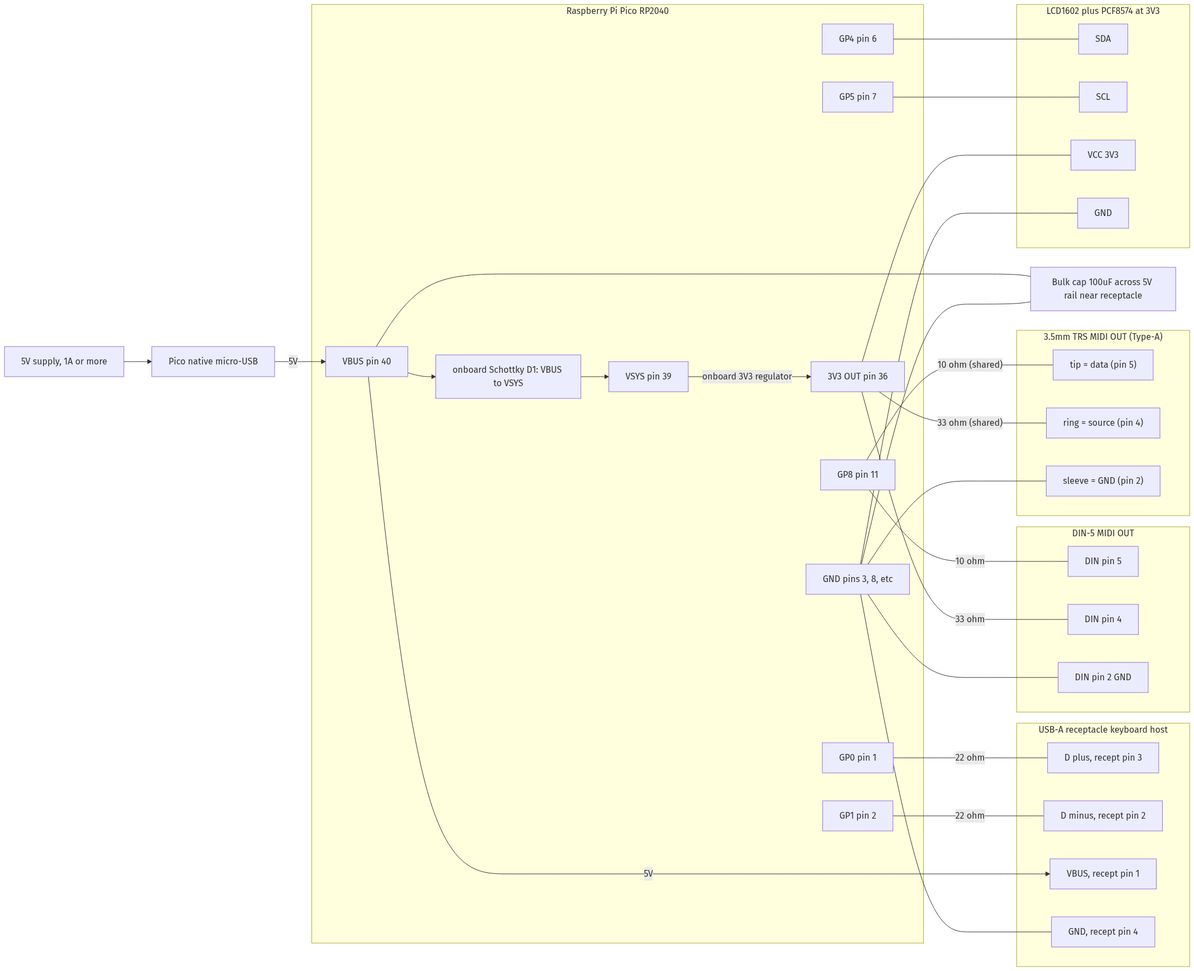
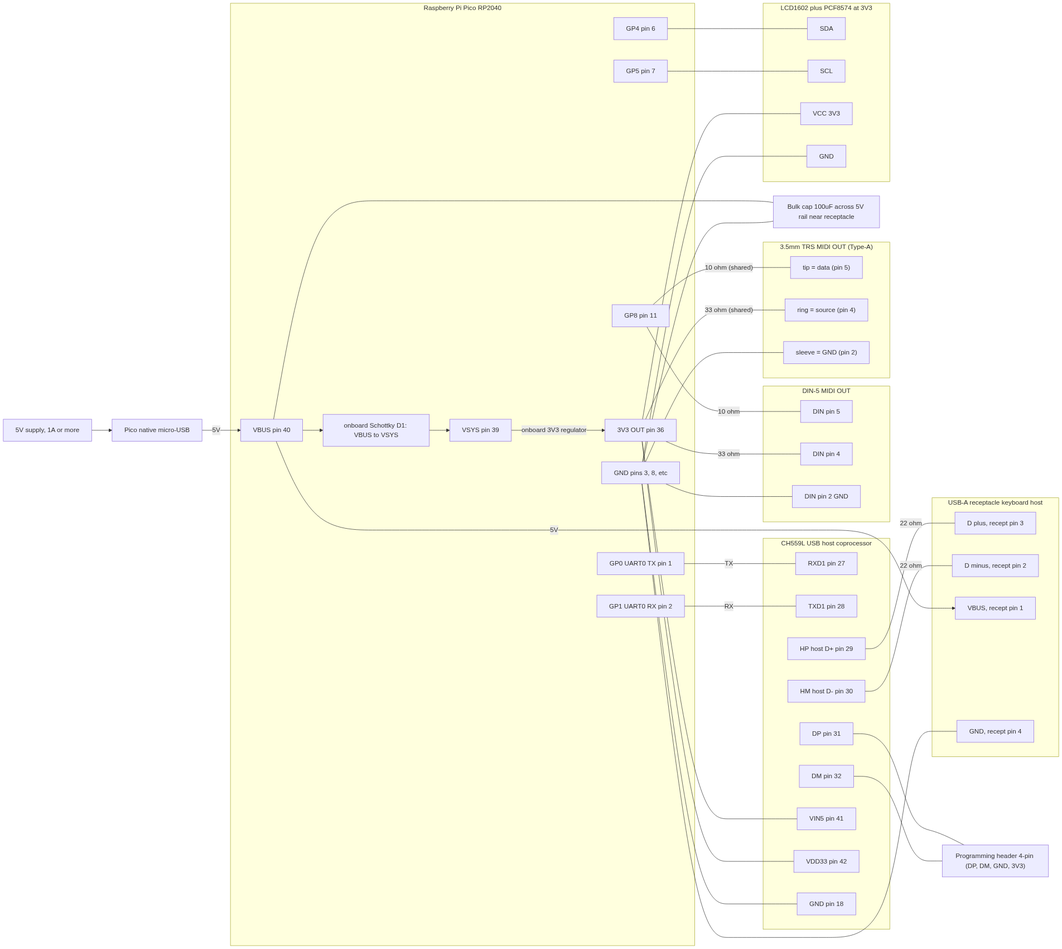
Adopt CH559 USB-host coprocessor (M12): spec, wiring, BOM, flashing docs

diff --git a/docs/KeybChord_Pico_Spec.md b/docs/KeybChord_Pico_Spec.md
@@ -2,7 +2,7 @@
 
 **Project:** KeybChord — Raspberry Pi Pico (RP2040) Edition
 **Description:** Turn any USB keyboard into an Omnichord-style MIDI controller using a Raspberry Pi Pico (RP2040), written in C++ on the Arduino-Pico core.
-**Document status:** v1 (Pico port) — build-ready. Derived from the Raspberry Pi Zero 2 W spec (`KeybChord_Spec.md` v3). This edition retargets the project to a bare-metal RP2040 microcontroller: the firmware is C++ (not Python), keyboard input is via a USB **host** stack (TinyUSB + Pico-PIO-USB, not Linux `evdev`), MIDI output is **DIN/UART only** (the USB port hosts the keyboard), persistence is **JSON on LittleFS** (not SD/JSON files), and there is **no OS/systemd** (the board runs on power-up). Two minor items remain open (LCD line-2 layout and final rhythm list, Section 14) and are flagged inline with **[DRAFT — REVIEW]**; both are deferred to post-hardware testing and do not block implementation.
+**Document status:** v1 (Pico port) — build-ready. Derived from the Raspberry Pi Zero 2 W spec (`KeybChord_Spec.md` v3). This edition retargets the project to a bare-metal RP2040 microcontroller: the firmware is C++ (not Python), keyboard input is via a **CH559 USB-host coprocessor** (not Linux `evdev`), MIDI output is **DIN/TRS + USB MIDI**, persistence is **JSON on LittleFS** (not SD/JSON files), and there is **no OS/systemd** (the board runs on power-up). Two minor items remain open (LCD line-2 layout and final rhythm list, Section 14) and are flagged inline with **[DRAFT — REVIEW]**; both are deferred to post-hardware testing and do not block implementation.
 **Target audience:** Coding agent implementing the firmware.
 
 ---
@@ -27,7 +27,7 @@ KeybChord is a standalone MIDI controller. A standard USB keyboard is plugged in
 - **Language:** C++17.
 - **Platform / core:** Arduino-Pico core (earlephilhower) targeting RP2040 (Raspberry Pi Pico / Pico W).
 - **Build system:** PlatformIO, with two environments — an on-device `pico` environment and a desktop `native` environment for unit-testing the pure-logic core.
-- **USB keyboard input:** USB **host** via TinyUSB + Pico-PIO-USB. The firmware parses HID keyboard reports directly (boot and/or report protocol), tracking modifiers and N-key rollover from the report data. There is no OS input layer; the keyboard is owned exclusively by the firmware.
+- **USB keyboard input:** a **CH559** (WCH) acts as a USB **host** coprocessor, enumerating the keyboard (boot and/or report protocol, incl. NKRO) and forwarding parsed key events to the RP2040 over a UART bridge. There is no OS input layer; the keyboard is owned exclusively by the firmware.
 - **MIDI output:** DIN and TRS via hardware UART (`Serial2` = UART1) at 31250 baud, 8N1, plus a USB MIDI device on the native USB port (see 3.4). DIN is the always-available path.
 - **Persistence:** JSON on **LittleFS** in the Pico's onboard flash, parsed/serialized with ArduinoJson. Human-readable and user-editable via the flash filesystem.
 - **No FPU:** RP2040 (Cortex-M0+) has **no hardware floating-point**. All timing-sensitive and per-event math (chord/voicing/strum/rhythm/clock) MUST be integer or fixed-point. In particular, **swing is stored and computed as a fixed-point integer** (see Sections 7.3 and 9). Floats are permitted only in cold paths (e.g. one-time config parsing), never in the real-time loops.
@@ -40,7 +40,7 @@ These are the recommended, commonly-used libraries for this hardware/stack. The 
 | Purpose | Library | Notes |
 |---------|---------|-------|
 | RP2040 Arduino core | `arduino-pico` (earlephilhower) | Provides Arduino API, dual-core (`setup1/loop1`), TinyUSB, LittleFS, hardware UARTs (`Serial1`/`Serial2`) |
-| USB host stack | TinyUSB (bundled with core) + `Pico-PIO-USB` (sekigon-gonnoc) | HID keyboard host on a PIO-driven USB port; FS/LS host + hub supported |
+| USB host stack | CH559 (WCH) USB-host coprocessor (8051 C firmware) over a UART bridge | HID keyboard host incl. hubs + report/NKRO; key events forwarded to the RP2040 over UART |
 | DIN MIDI (UART) | Arduino `Serial2` (UART1, raw bytes) | 31250 baud 8N1; optional `Arduino MIDI Library` for framing |
 | LCD1602 over PCF8574 I2C | `hd44780` (by Bill Perry) or `LiquidCrystal_I2C` | PCF8574 I/O-expander mode over `Wire` |
 | JSON parse/serialize | `ArduinoJson` (bblanchon) | Config/preset/pattern read/write on LittleFS |
@@ -51,7 +51,7 @@ These are the recommended, commonly-used libraries for this hardware/stack. The 
 The agent will produce the entire firmware project. Work in the following ordered steps; after each step, stop and present the result for the user to test and give feedback before proceeding.
 
 1. **Repo structure & scaffolding.** Create the PlatformIO project layout, `platformio.ini` with `pico` + `native` environments and pinned library deps (per 1.5), entry point (`src/main.cpp` with `setup/loop` and `setup1/loop1`), a config loader that generates default `config.json` and default preset banks on LittleFS on first boot (Section 12.x robustness), and hardware adapter interfaces with null fallbacks (input, LCD, MIDI out, keyboard LED, storage) so the pure core builds and runs on the `native` host. Verify: firmware builds for `pico`; native test target builds; app logic initializes and loads/creates config.
-2. **Core framework.** Implement Input Manager (USB-host HID keyboard via TinyUSB/Pico-PIO-USB), State Manager, MIDI Router (DIN via `Serial2`/UART1), Config/Preset store (LittleFS + ArduinoJson), and a **minimal USB-CDC debug log + MIDI monitor** (raw key events in, outgoing MIDI messages out) — the on-device feedback instrument for steps 2–5, since the LCD does not arrive until step 6. Verify: raw key events are captured on-device and observed via the USB-CDC debug log; a hardcoded note plays on the DIN output and appears in the MIDI monitor (and null-logs on the native host). No LCD required.
+2. **Core framework.** Implement Input Manager (USB-host HID keyboard via the CH559 coprocessor + UART bridge), State Manager, MIDI Router (DIN via `Serial2`/UART1), Config/Preset store (LittleFS + ArduinoJson), and a **minimal USB-CDC debug log + MIDI monitor** (raw key events in, outgoing MIDI messages out) — the on-device feedback instrument for steps 2–5, since the LCD does not arrive until step 6. Verify: raw key events are captured on-device and observed via the USB-CDC debug log; a hardcoded note plays on the DIN output and appears in the MIDI monitor (and null-logs on the native host). No LCD required.
 3. **Chord engine.** Root/quality resolution from the key grid, same-column + left-adjacent + leftmost combination matrix, voicing (root-position & smart), extensions, and the four play modes with correct note lifecycle. Verify: chords and combinations produce correct notes; play modes behave per spec.
 4. **Strum plate.** Note-pool derivation, full + limited numpad layouts (independent of the keyboard's Num-Lock state), strum params, immediate edit pickup. Verify: strumming plays the active chord's notes correctly in both layouts.
 5. **Rhythm engine.** Scheduler/clock (on the second core), JSON pattern playback on ch10, tempo/swing (fixed-point), mute, MIDI clock toggle, arpeggio/bass sync, and the keyboard-LED BPM indicator (FR-R8). Verify: patterns play; tempo/swing/mute/clock behave; Scroll Lock LED flashes on the beat when rhythm is enabled.
@@ -68,8 +68,13 @@ The agent will produce the entire firmware project. Work in the following ordere
 |------|---------|
 | Raspberry Pi Pico (RP2040) | Main compute unit (Pico W also fine; W's wireless is unused in v1) |
 | USB keyboard | Primary input device |
-| USB-A receptacle / breakout | Host port for the keyboard, wired to the Pico's PIO-USB D+/D- GPIO pins. Receptacle pinout: pin 1 = VBUS (5V), pin 2 = D-, pin 3 = D+, pin 4 = GND. |
-| 2× 22Ω resistors (1/4 W) | **Required** series resistors on the PIO-USB D+/D- lines (per Pico-PIO-USB reference). These are the only series elements on D+/D-; the keyboard supplies its own device-side pull-ups. |
+| USB-A receptacle / breakout | Host port for the keyboard, wired to the **CH559** HP/HM pins. Receptacle pinout: pin 1 = VBUS (5V), pin 2 = D-, pin 3 = D+, pin 4 = GND. |
+| CH559L (USB host coprocessor) | WCH 8051 MCU with a **hardware USB host controller**, hosting hubs + full-length descriptors + report/NKRO protocols and forwarding key events over UART (see 2.2). Replaces the PIO-USB software host. Powered from `3V3(OUT)`; runs off its internal oscillator (no crystal). |
+| 2× 22Ω resistors (1/4 W) | **Required** series resistors on the CH559 HP/HM (D+/D-) lines. These are the only series elements on D+/D-; the keyboard supplies its own device-side pull-ups. |
+| 2× 0.1 µF ceramic capacitors | Decoupling on the CH559 `VIN5` (pin 41) and `VDD33` (pin 42). |
+| 1× 10 kΩ resistor (1/4 W) | **BOOT** pull-up (`DP`→3V3) for CH559 bootloader entry (see `docs/wiring.md` §Flashing the CH559). |
+| 2× tactile switch (BOOT, RESET) | CH559 bootloader entry / reset — BOOT pulls `DP` high via 10 kΩ, RESET on `RST` (pin 3). Two shortable solder pads may substitute. |
+| 1× 4-pin 0.1" (2.54 mm) male header | CH559 **programming header** — `DP` (31), `DM` (32), `GND`, `3V3`. Mates with a USB-A plug breakout pigtail for flashing (see `docs/wiring.md` §Flashing the CH559). |
 | LCD1602 display + PCF8574 I2C backpack | Status / parameter display. **Operated at 3.3V** so its I2C bus stays 3.3V-safe for the RP2040 (see 2.2). |
 | 5-pin DIN socket (DIN-5, 180°) | Classic MIDI output. |
 | 3.5 mm TRS (Type-A) MIDI out jack | Secondary MIDI output, wired **in parallel** with the DIN current loop (shares the same 10Ω/33Ω loop resistors — no additional parts). TRS Type-A: tip = DIN pin 5 (data), ring = DIN pin 4 (source), sleeve = DIN pin 2 (GND). See 2.2. |
@@ -83,27 +88,27 @@ The agent will produce the entire firmware project. Work in the following ordere
 
 ### 2.2 Connections
 
-This is the **canonical default pin map**. GPIO are given with their physical Pico header pin numbers. The only supported overrides are the PIO-USB D+ base pin (via the `PIO_USB_DP_PIN_DEFAULT` build flag) and the DIN/I2C pins (via `pins.h`); the wiring below and the firmware defaults must always agree. The authoritative map lives in the roadmap (§5.2).
+This is the **canonical default pin map**. GPIO are given with their physical Pico header pin numbers. The only supported overrides are the CH559 UART pins and the DIN/I2C pins (via `pins.h`); the wiring below and the firmware defaults must always agree. The authoritative map lives in the roadmap (§5.2).
 
-- **Keyboard (USB host):** USB keyboard → USB-A receptacle → Pico PIO-USB pins. **D+ = `GP0` (header pin 1), D- = `GP1` (header pin 2)**, set by `PIO_USB_DP_PIN_DEFAULT=0` (D- is always D+ +1). Each line carries a **22Ω series resistor** (the only series element; the keyboard provides device-side pull-ups). Signaling is full/low-speed USB at 3.3V logic levels. The keyboard is powered from `VBUS` (5V, header pin 40) + GND through the receptacle (receptacle pin 1 = VBUS, pin 2 = D-, pin 3 = D+, pin 4 = GND). Enumerated and parsed by the firmware's TinyUSB host + Pico-PIO-USB HID stack.
-- **LCD1602 (I2C):** SDA→`GP4` (header pin 6), SCL→`GP5` (header pin 7) on I2C0. **VCC→3.3V (`3V3(OUT)`, header pin 36), GND→GND** — the backpack is run at 3.3V so the I2C bus stays within the RP2040's 3.3V range (do not power the backpack from 5V without a level shifter). Pull-ups: use the backpack's onboard pull-ups, or add 4.7 kΩ from SDA/SCL to 3.3V if absent. The firmware auto-probes the PCF8574 address at boot: try `0x27`, then `0x3F`; if neither ACKs, fall back to the null LCD adapter (no crash, per NFR-5). (`GP4`/`GP5` are the fixed default, chosen to avoid the PIO-USB and UART pins.)
-- **DIN MIDI out (UART, 3.3V current loop):** DIN uses **`Serial2` (UART1), TX on `GP8` (header pin 11)**, chosen to avoid the PIO-USB `GP0`/`GP1` pins. In firmware, call `Serial2.setTX(8)` before `Serial2.begin(31250)` (UART1's default TX pin is not guaranteed to be `GP8`). MIDI OUT is driven **directly from the 3.3V `GP8` TX pin** — a standards-compliant 3.3V current loop per the MIDI 1.0 Electrical Specification update (2014). Wiring: `GP8` → 10Ω → DIN pin 5; `3V3(OUT)` (header pin 36) → 33Ω → DIN pin 4; GND → DIN pin 2. 31250 baud, 8N1. Notes: the RP2040 UART TX is push-pull, not open-drain — a benign deviation from the letter of the spec that works with standard opto-isolated MIDI inputs (see references, roadmap §5.5); optional ferrite beads on the DIN signal pins reduce RFI (2014 update, optional). No transistor/level-shifter is required at 3.3V.
+- **Keyboard (USB host, CH559L coprocessor on UART0):** USB keyboard → USB-A receptacle → **CH559L** → Pico `Serial1` (UART0). **`GP0` (header pin 1) = TX → CH559 `RXD1` (pin 27), `GP1` (header pin 2) = RX ← CH559 `TXD1` (pin 28)**. The CH559 **HP** (pin 29) / **HM** (pin 30) run to the receptacle through **22Ω series resistors** (the only series elements; the keyboard provides device-side pull-ups); `DP` (pin 31) / `DM` (pin 32) go to a 4-pin programming header. **Power:** `VIN5` (pin 41) and `VDD33` (pin 42) both to `3V3(OUT)` (0.1 µF decoupling; the internal LDO is bypassed below 3.6 V), `GND` (pin 18), `RST` (pin 3). Signaling is full/low-speed USB at 3.3V logic levels. The keyboard is powered from `VBUS` (5V, header pin 40) + GND through the receptacle (receptacle pin 1 = VBUS, pin 2 = D-, pin 3 = D+, pin 4 = GND). The CH559 runs its own 8051-C host firmware and forwards parsed key events to the RP2040 over UART.
+- **LCD1602 (I2C):** SDA→`GP4` (header pin 6), SCL→`GP5` (header pin 7) on I2C0. **VCC→3.3V (`3V3(OUT)`, header pin 36), GND→GND** — the backpack is run at 3.3V so the I2C bus stays within the RP2040's 3.3V range (do not power the backpack from 5V without a level shifter). Pull-ups: use the backpack's onboard pull-ups, or add 4.7 kΩ from SDA/SCL to 3.3V if absent. The firmware auto-probes the PCF8574 address at boot: try `0x27`, then `0x3F`; if neither ACKs, fall back to the null LCD adapter (no crash, per NFR-5). (`GP4`/`GP5` are the fixed default, chosen to avoid the UART and SPI pins.)
+- **DIN MIDI out (UART, 3.3V current loop):** DIN uses **`Serial2` (UART1), TX on `GP8` (header pin 11)**, chosen to avoid the UART0 (`GP0`/`GP1`) and I2C (`GP4`/`GP5`) pins. In firmware, call `Serial2.setTX(8)` before `Serial2.begin(31250)` (UART1's default TX pin is not guaranteed to be `GP8`). MIDI OUT is driven **directly from the 3.3V `GP8` TX pin** — a standards-compliant 3.3V current loop per the MIDI 1.0 Electrical Specification update (2014). Wiring: `GP8` → 10Ω → DIN pin 5; `3V3(OUT)` (header pin 36) → 33Ω → DIN pin 4; GND → DIN pin 2. 31250 baud, 8N1. Notes: the RP2040 UART TX is push-pull, not open-drain — a benign deviation from the letter of the spec that works with standard opto-isolated MIDI inputs (see references, roadmap §5.5); optional ferrite beads on the DIN signal pins reduce RFI (2014 update, optional). No transistor/level-shifter is required at 3.3V.
 - **TRS MIDI out (3.5 mm, Type-A, parallel with DIN):** A 3.5 mm TRS jack carries the same signal as the DIN loop, wired in parallel so both connectors work simultaneously (driving a second receiver on the same current loop is within the MIDI 1.0 spec). Type-A pinout: **tip = DIN pin 5** (data, the `GP8`→10Ω node), **ring = DIN pin 4** (source, the `3V3(OUT)`→33Ω node), **sleeve = DIN pin 2** (GND). No firmware change and no additional resistors are required.
 - **Keyboard LEDs (BPM indicator):** The keyboard's Scroll Lock LED is driven by sending a **HID Output Report (SET_REPORT)** to the keyboard over the USB-host connection (FR-R8). No additional wiring required.
 
-> **Pin-assignment rule:** PIO-USB D+/D- , `Serial2`/UART1 TX (DIN), and I2C0 SDA/SCL must not overlap. Pins are set in exactly two places — the `PIO_USB_DP_PIN_DEFAULT` build flag (USB host) and `pins.h` (DIN TX + I2C) — which are the single source of truth mirrored by the wiring above. The canonical map is `GP0`/`GP1` (USB), `GP8` (DIN TX), `GP4`/`GP5` (I2C0); confirm on hardware during M1/M2 bring-up and keep this section and roadmap §5.2 in sync.
+> **Pin-assignment rule:** CH559 UART0 (`GP0`/`GP1`), `Serial2`/UART1 TX (DIN, `GP8`), and I2C0 SDA/SCL (`GP4`/`GP5`) must not overlap. Pins are set in exactly one place — `pins.h` (CH559 UART, DIN TX, I2C) — which is the single source of truth mirrored by the wiring above. The canonical map is `GP0`/`GP1` (CH559 UART), `GP8` (DIN TX), `GP4`/`GP5` (I2C0); confirm on hardware during M12 bring-up and keep this section and roadmap §5.2 in sync.
 
 > A rendered connection diagram of this pin map is in [`docs/wiring.md`](docs/wiring.md).
 
 ### 2.3 Hardware Notes & USB Topology
-- The Pico has **one native USB port**. In this design that port is **not** used for the keyboard: instead, a **second, software-defined USB host port** is created on ordinary GPIO using **Pico-PIO-USB** (PIO + DMA), and the keyboard connects there. The native USB port is left free (may be used for power and/or a USB-CDC debug/log console during development).
-- **No host-vs-gadget conflict:** The keyboard is hosted on the PIO-USB port while USB MIDI + CDC live on the native USB port as a *device*, so there is **no** USB role conflict of the kind that affected the Pi Zero 2 W. This is a deliberate simplification of the original design risk.
+- The Pico has **one native USB port**. In this design that port is **not** used for the keyboard: instead, a **CH559L USB host coprocessor** on UART0 hosts the keyboard. The native USB port is left free for power and/or a USB-CDC debug/log console + USB MIDI device during development.
+- **No host-vs-gadget conflict:** The keyboard is hosted on the CH559 (UART bridge) while USB MIDI + CDC live on the native USB port as a *device*, so there is **no** USB role conflict of the kind that affected the Pi Zero 2 W. This is a deliberate simplification of the original design risk.
 - **Guaranteed MIDI path:** DIN (UART) is the always-available MIDI path. All functionality works over DIN; USB MIDI and TRS are additive.
 - **Power (canonical):** Power the Pico via its native micro-USB connector; the keyboard draws 5V from `VBUS`. Use a supply rated **≥ 1 A** (Pico ≤ ~150 mA + keyboard 100–500 mA; size up for backlit/RGB keyboards). The 5V supply, USB cable, and connector must carry the **combined** Pico + keyboard current. (The keyboard load taps `VBUS`, which is *upstream* of the Pico's onboard `VBUS`→`VSYS` Schottky diode **D1**, so the keyboard current does not pass through D1.) Fit a **100 µF bulk capacitor** on the 5V rail near the keyboard receptacle to absorb hot-plug inrush and prevent Pico brownout / USB-stack wedge (supports NFR-5; a watchdog is the secondary safeguard).
   - **Master power switch (recommended, not required):** the Pico's micro-USB connector is soldered **directly** to `VBUS`, so there is no on-board break point for a master switch. A switch that cuts both the Pico *and* the keyboard therefore lives **off-board** — an **inline USB power switch** on the 5V cable or a **switched PSU** — rather than on the PCB. (A switch in `VBUS`→`VSYS` is *not* a master switch: it only cuts the Pico, leaving the keyboard's `VBUS` tap hot; `3V3_EN`/`RUN` also leave the board powered.)
   - **Back-feed safety rule:** The Pico already has an onboard Schottky (**D1**) between `VBUS` and `VSYS`. If you power an *alternative* way by injecting a regulated 5V into `VSYS`, do **not** also power via native USB unless that external `VSYS` feed goes through its **own series Schottky diode** (per the Raspberry Pi "Powering Pico" guidance) — otherwise the two sources fight through D1. Pick one power path. The `VSYS`-fed option is for hungry keyboards; the canonical native-USB→`VBUS` path needs no extra diode.
 - **LCD 3.3V rail budget:** The LCD is powered from `3V3(OUT)` (header pin 36), which is the RP2040's onboard 3.3V regulator output (≈ 300 mA total, shared with the RP2040 itself). A plain LCD1602 + PCF8574 backpack draws only a few mA, but a **backlit** module can pull 20–40 mA; if using a high-draw/backlit LCD, keep it within the `3V3(OUT)` budget or power its backlight from a separate rail.
-- **USB host maturity:** Full-speed/low-speed HID keyboard hosting (incl. hubs) is supported by TinyUSB + Pico-PIO-USB on RP2040. N-key rollover is limited by the *keyboard's* HID report protocol (boot protocol commonly caps at 6 simultaneous keys) — see NFR-6.
+- **USB host maturity:** Full-speed/low-speed HID keyboard hosting (incl. hubs and long descriptors) is handled by the CH559 coprocessor. N-key rollover is limited by the *keyboard's* HID report protocol (boot protocol commonly caps at 6 simultaneous keys) — see NFR-6.
 
 ---
 
@@ -114,7 +119,7 @@ The system is a set of cooperating modules coordinated by a central state manage
 
 | Module | Responsibility |
 |--------|----------------|
-| Input Manager | Drive TinyUSB + Pico-PIO-USB host; parse HID keyboard reports; track pressed keys & modifiers; debounce; emit semantic input events. |
+| Input Manager | Receive parsed key events from the CH559 over the UART bridge; track pressed keys & modifiers; debounce; emit semantic input events. |
 | Keymap Resolver | Translate raw HID usage codes + modifier state into logical actions (chord select, function toggle, strum, navigation). |
 | Chord Engine | Maintain active chord state; compute voicings; handle play modes (held/press-to-play/arpeggio/silent). |
 | Strum Engine | Map strum keys to notes of the current chord; apply strum params. |
@@ -133,14 +138,14 @@ The system is a set of cooperating modules coordinated by a central state manage
 - **No FPU:** all real-time math (Section 1.4) is integer/fixed-point; swing in particular is fixed-point (Sections 7.3, 9).
 
 ### 3.3 Data Flow
-`USB host (TinyUSB/PIO-USB)` → Input Manager → Keymap Resolver → (Chord | Strum | Bass | Rhythm | Nav | Param) action → State Manager → engines produce MIDI events → MIDI Router → DIN/UART. Display Manager and LED Indicator observe State Manager / scheduler for updates.
+`CH559 host (USB) → UART bridge` → Input Manager → Keymap Resolver → (Chord | Strum | Bass | Rhythm | Nav | Param) action → State Manager → engines produce MIDI events → MIDI Router → DIN/UART. Display Manager and LED Indicator observe State Manager / scheduler for updates.
 
 ### 3.4 MIDI Output Detail
 - **DIN/UART:** Open `Serial2` (UART1) at 31250 baud, 8N1; write raw MIDI bytes.
 - **USB MIDI device (native USB):** the RP2040's native USB port presents a TinyUSB **composite CDC (debug log) + MIDI** device; the MIDI router fans every outgoing message to the USB MIDI interface. USB MIDI is gated by `midi.usb_enabled` (default on); when off, the interface still enumerates but no bytes are sent.
 - Per-function channel/route is applied per message (chord/strum/rhythm channels, Section 4.5).
 - The output must degrade gracefully if nothing is connected on the far end (the firmware keeps transmitting; an unconnected DIN is not an error).
-- The keyboard is hosted on the **PIO-USB** port (`GP0`/`GP1`), so the native USB port is free for power + CDC debug + USB MIDI — there is no host/gadget role conflict.
+- The keyboard is hosted on the **CH559 coprocessor** (over UART0), so the native USB port is free for power + CDC debug + USB MIDI — there is no host/gadget role conflict.
 
 ---
 
@@ -815,7 +820,7 @@ All adjustable parameters, with min/max/default/step. On default initialization 
 
 - **NFR-1 Latency:** Key-report to MIDI-output latency < 10 ms (target). Bounded largely by USB-host poll interval (typically 1 ms) plus minimal per-event work on Core 0. Measure and document typical/worst-case.
 - **NFR-2 Timing accuracy:** Rhythm/arp step timing jitter < 2 ms. Achieved via the dedicated Core 1 monotonic scheduler with non-blocking MIDI writes; LED HID writes kept off the critical path.
-- **NFR-3 Resource use:** Run within RP2040 constraints (264 KB SRAM, 2 MB flash). Pico-PIO-USB uses ~15 KB RAM + 1 PIO block (3 state machines); keep the rest lean. No dynamic allocation in real-time paths; prefer static buffers.
+- **NFR-3 Resource use:** Run within RP2040 constraints (264 KB SRAM, 2 MB flash). The keyboard host runs on the external CH559 (which owns the USB-host RAM/PIO), so the RP2040 cost is only the small UART-bridge buffer; keep the rest lean. No dynamic allocation in real-time paths; prefer static buffers.
 - **NFR-4 Boot-to-ready:** No OS/systemd; firmware runs from flash on power-up. Reach playable state quickly (target < 3 s), dominated by USB enumeration of the keyboard and LittleFS mount.
 - **NFR-5 Robustness:** Handle keyboard hot-plug/unplug (re-enumerate), missing/failed LCD, keyboards that reject LED output reports, and an unconnected DIN, without crashing or hanging. A watchdog may be used to recover from a wedged USB stack.
 - **NFR-6 N-key rollover:** Support simultaneous chord + strum key presses. Rollover is bounded by the *keyboard's* HID report protocol (boot-protocol keyboards commonly report at most 6 concurrent keys plus modifiers). Prefer report-protocol (full NKRO) when the keyboard offers it; document per-keyboard limitations.
@@ -909,7 +914,7 @@ These milestones align with the Build Sequence (Section 1.6); stop for user feed
 Resolved in this Pico port (see referenced sections): board/compute choice (RP2040 sufficient; see roadmap), language (C++17 / Arduino-Pico), USB keyboard hosting (TinyUSB + Pico-PIO-USB), MIDI path (DIN-only, USB host/gadget conflict eliminated), persistence (JSON on LittleFS via ArduinoJson), no-FPU integer/fixed-point swing, dual-core threading model, no-OS boot, testing via GoogleTest on a `native` env.
 
 Still open (deferred to post-hardware testing):
-1. **Final GPIO pin map** (PIO-USB D+/D-, `Serial2`/UART1 TX, I2C SDA/SCL): defaults proposed in 2.2; finalize during M1/M2 bring-up and record in the roadmap hardware section.
+1. **Final GPIO pin map** (CH559 UART0 `GP0`/`GP1`, `Serial2`/UART1 TX `GP8`, I2C SDA/SCL `GP4`/`GP5`): defaults proposed in 2.2; finalize during M12 bring-up and record in the roadmap hardware section.
 2. **LCD line-2 layout (4.6 FR-D1):** to revisit after hardware testing. (Implementation approach in Roadmap §8.2 item 2 — shipped as the draft layout, data-sourced for tuning.)
 3. **Rhythm list (7.1):** confirm/expand the pattern set. (The 12 named patterns to ship as-is are listed in Roadmap §8.2 item 3.)
 4. **Persistence detail:** confirm JSON-on-LittleFS for all tables vs. compiling large static tables into flash with JSON overrides (8.3).

diff --git a/docs/wiring.md b/docs/wiring.md
@@ -30,11 +30,23 @@ flowchart LR
         VSYS["VSYS pin 39"]
         V33["3V3 OUT pin 36"]
         GND["GND pins 3, 8, etc"]
-        GP0["GP0 pin 1"]
-        GP1["GP1 pin 2"]
+        GP0["GP0 UART0 TX pin 1"]
+        GP1["GP1 UART0 RX pin 2"]
         GP4["GP4 pin 6"]
         GP5["GP5 pin 7"]
         GP8["GP8 pin 11"]
+    end
+
+    subgraph CH559["CH559L USB host coprocessor"]
+        C_RX["RXD1 pin 27"]
+        C_TX["TXD1 pin 28"]
+        C_HP["HP host D+ pin 29"]
+        C_HM["HM host D- pin 30"]
+        C_DP["DP pin 31"]
+        C_DM["DM pin 32"]
+        C_VIN5["VIN5 pin 41"]
+        C_VDD["VDD33 pin 42"]
+        C_GN["GND pin 18"]
     end
 
     subgraph KBD["USB-A receptacle keyboard host"]
@@ -43,6 +55,8 @@ flowchart LR
         KVB["VBUS, recept pin 1"]
         KGN["GND, recept pin 4"]
     end
+
+    PROG["Programming header 4-pin (DP, DM, GND, 3V3)"]
 
     subgraph DIN["DIN-5 MIDI OUT"]
         D5["DIN pin 5"]
@@ -75,8 +89,15 @@ flowchart LR
     VBUS --- CAP
     GND --- CAP
 
-    GP0 ---|"22 ohm"| KDP
-    GP1 ---|"22 ohm"| KDM
+    GP0 ---|"TX"| C_RX
+    GP1 ---|"RX"| C_TX
+    V33 --- C_VIN5
+    V33 --- C_VDD
+    GND --- C_GN
+    C_HP ---|"22 ohm"| KDP
+    C_HM ---|"22 ohm"| KDM
+    C_DP --- PROG
+    C_DM --- PROG
 
     GP8 ---|"10 ohm"| D5
     V33 ---|"33 ohm"| D4
@@ -97,9 +118,16 @@ flowchart LR
 ## Legend & notes
 
 - **All resistors 1/4 W (0.25 W)** — actual dissipation is only milliwatts.
-- **USB host:** `GP0`=D+, `GP1`=D- with a **22 ohm** series resistor on each line
-  (the only series elements; the keyboard supplies device-side pull-ups). Set via the
-  `PIO_USB_DP_PIN_DEFAULT=0` build flag.
+- **USB host (CH559L coprocessor on UART0):** the keyboard is hosted by a dedicated
+  **CH559L** (WCH 8051 MCU with a hardware USB host controller). It enumerates the
+  keyboard (hubs + report/NKRO), parses HID reports, and forwards key events to the Pico
+  over **UART0** — `GP0`=TX (→ CH559 `RXD1` pin 27), `GP1`=RX (← CH559 `TXD1` pin 28).
+  The CH559 **HP** (pin 29) / **HM** (pin 30) run to the receptacle through **22 Ω** series
+  resistors (the only series elements; the keyboard supplies device-side pull-ups). `DP`
+  (pin 31) / `DM` (pin 32) go to a **4-pin programming header** for flashing the CH559 via
+  its USB bootloader. **Power:** `VIN5` (pin 41) and `VDD33` (pin 42) both to `3V3(OUT)`
+  (0.1 µF decoupling; at a <3.6 V supply the internal LDO is bypassed), `GND` (pin 18) to
+  ground. Runs off its **internal oscillator** (no crystal). `RST` is pin 3.
 - **DIN MIDI OUT (3.3V loop):** driven directly from the 3.3V `GP8` TX pin —
   **10 ohm** in series with `GP8` to DIN pin 5, **33 ohm** from `3V3(OUT)` to DIN pin 4,
   GND to DIN pin 2. Standards-compliant per the MIDI 1.0 Electrical Spec update (2014).
@@ -127,7 +155,61 @@ flowchart LR
   keep a backlit LCD within budget or power its backlight separately.
 
 For reference designs and precedent (rppicomidi, Adafruit MIDI FeatherWing, PJRC/Teensy,
-MIDI.org 2014 update, Pico-PIO-USB, Pico datasheet power section), see the spec.
+MIDI.org 2014 update, CH559 datasheet / HIDman / atc1441 CH559sdccUSBHost, Pico datasheet
+power section), see the spec.
+
+## Flashing the CH559
+
+The CH559 is programmed over **USB** (its `DP`/`DM` device port), not UART. Only **D+,
+D-, GND** are needed from the PC — the board self-powers at 3.3 V, so do **not** connect
+the PC's 5 V `VBUS` into the board.
+
+**Board-side connector (recommended):** a **4-pin 0.1" (2.54 mm) male header** — `DP`
+(pin 31), `DM` (pin 32), `GND`, and `3V3` (the 4th pin is optional, used only as a power
+reference). Through-hole and trivial to hand-solder. The header's `GND`/`3V3` are the
+Pico's ground and `3V3(OUT)` (the same rail that powers the CH559); the `3V3` pin is a
+reference only — do not feed power into it and never connect the PC's 5 V `VBUS`.
+
+**Cable/programmer:** a **USB-A male plug breakout** (a small board with a USB-A plug and
+labelled `VBUS`/`D+`/`D-`/`GND` pads). Solder a 4-pin female dupont/JST-XH pigtail to it —
+`D+`→DP, `D-`→DM, `GND`→GND, and leave `VBUS` unconnected — then plug the USB-A straight
+into the PC. Avoid a raw USB-A↔A cable (host-to-host hazard); a labelled breakout or a cut
+cable is the safe route.
+
+**Bootloader entry (first flash):** CH55x enters its USB bootloader by pulling **D+ (DP)
+high through ~10 kΩ** during reset. So also place two tactile buttons (or two shortable
+pads) on the board: **BOOT** (10 kΩ `DP`→3V3) and **RESET** (pin 3). After the first
+flash, `ch55xtool`/ch55xduino re-enters the bootloader over USB automatically, so the
+buttons/pads are mainly for initial programming.
+
+**Software:**
+- [`ch55xtool`](https://github.com/MarsTechHAN/ch552tool) — Python, cross-platform:
+  `python3 ch55xtool.py -f firmware.bin`.
+- [`WCHISPTool`](https://www.wch.cn/downloads/WCHISPTool_Setup_exe.html) — WCH's Windows tool.
+- Firmware base: [`atc1441/CH559sdccUSBHost`](https://github.com/atc1441/CH559sdccUSBHost)
+  (SDCC) or WCH's `CH559EVT` host examples.
+
+**Parts / sources:**
+- **USB-A plug breakout** (the PC-side plug with labelled pads):
+  [Adafruit 4448 — USB Type A Plug Breakout Cable w/ female jumpers](https://www.adafruit.com/product/4448)
+  (ready-made pigtail, recommended) or
+  [Adafruit 1387 — USB DIY Connector Shell (Type A Male Plug)](https://www.adafruit.com/product/1387)
+  (bare shell; solder your own wires). Generic "USB A plug breakout" modules are also
+  available from AliExpress/Amazon.
+- **Board header + pigtail:** a 1×4 **0.1" (2.54 mm) male pin header** — e.g.
+  [Adafruit 392 — Break-away 0.1" 36-pin strip male header](https://www.adafruit.com/product/392)
+  (snap off 4 pins) — plus female dupont jumpers to mate with it, e.g.
+  [Adafruit 1951 — Premium Female/Female Jumper Wires, 20×3"](https://www.adafruit.com/product/1951)
+  or [Adafruit 266 — 40×6"](https://www.adafruit.com/product/266). (JST-XH pigtails are an
+  alternative from Digi-Key/LCSC.)
+- **Tactile switches:** 2× 6×6 mm tactile pushbutton (BOOT/RESET) — e.g.
+  [Adafruit 367 — Tactile Switch Buttons](https://www.adafruit.com/product/367) or any
+  Digi-Key/LCSC equivalent.
+- **Passives (board):** 1× 10 kΩ resistor (BOOT pull-up) and 2× 0.1 µF capacitors
+  (`VIN5`/`VDD33` decoupling) — generic parts.
+
+**Procedure:** hold **BOOT**, tap **RESET**, release **BOOT** → the CH559 enumerates as a
+USB bootloader device on the PC → run `ch55xtool -f <firmware>.bin` → done.
 
 ## Regenerating the PNG
 
@@ -141,4 +223,9 @@ npx @mermaid-js/mermaid-cli -i wiring.mmd -o wiring.png -b white -s 2
 On a headless Linux box you may need a Chromium/`chrome-headless-shell` for Puppeteer
 and a puppeteer config passing `--no-sandbox`. If Mermaid renders in your Markdown
 viewer, editing the source block and re-exporting is all that's needed to refresh the PNG.
+
+Headless alternative without node/docker: POST the Mermaid text to
+`https://kroki.io/mermaid/png`, or use mermaid.ink by encoding
+`{"code":"<mermaid>","mermaid":"{\"theme\":\"default\"}"}` with zlib + base64url and
+fetching `https://mermaid.ink/img/pako:<b64>?type=png&bgColor=FFFFFF`.
 

diff --git a/docs/v0.2.0-roadmap.md b/docs/v0.2.0-roadmap.md
@@ -2,9 +2,9 @@
 
 Development plan for v0.2.0. This supersedes the v0.1.0 plan
 ([`v0.1.0-roadmap.md`](v0.1.0-roadmap.md), archived). v0.1.0 is released; the
-work below adds hardware updates (a MAX3421E USB host to replace the unreliable
-PIO-USB keyboard host, a power switch, TRS MIDI out, USB MIDI out), chord
-patterns, a chord sequencer, macros, and a configurator UI refresh.
+work below adds hardware updates (a CH559 USB-host coprocessor to replace the
+unreliable PIO-USB keyboard host, a power switch, TRS MIDI out, USB MIDI out),
+chord patterns, a chord sequencer, macros, and a configurator UI refresh.
 
 Open design questions are recorded inline as **[DECIDE]** and must be resolved
 at each milestone's kickoff.
@@ -37,33 +37,38 @@ DIN/TRS cable.
 - **Verify:** MIDI arrives over USB on a host while DIN still transmits;
   CDC debug log keeps working; USB-MIDI-off behaves as today.
 
-## 2. M12 — Hardware: MAX3421E USB host + power switch + TRS MIDI out
+## 2. M12 — Hardware: CH559 USB host + power switch + TRS MIDI out
 
-### 2a. Replace the PIO-USB keyboard host with a MAX3421E (reliability)
+### 2a. Replace the PIO-USB keyboard host with a CH559 coprocessor (reliability)
 
 The PIO-USB host (a software USB host bit-banged over PIO state machines) is
 unreliable: it fails to enumerate hubs and keyboards whose descriptors exceed the
 stack's small enumeration buffer, so only a subset of modern keyboards work. The
 RP2040 itself is fine — only the host *port* is at fault. Replace it with a
-dedicated **MAX3421E** USB host controller on SPI (a real USB host peripheral,
-driven by the TinyUSB host stack's MAX3421E HCD). The RP2040, pinout, dual-core
-split, bootloader, and FatFS+MSC storage all stay **unchanged**; only the
-keyboard host driver changes.
+dedicated **CH559** (WCH) — a cheap 8051 MCU with a *hardware* USB host
+controller — acting as a **keyboard host coprocessor**. It enumerates the
+keyboard (hubs + report/NKRO protocols), parses HID reports, and forwards key
+events to the RP2040 over a UART bridge; the RP2040 stays a pure C++17 app and
+keeps the dual-core split, bootloader, MIDI/LCD, and FatFS+MSC storage unchanged.
 
-- **[DECIDE] Form factor:** bare MAX3421E (~$4, needs a 12 MHz crystal + a few
-  passives) vs. a prebuilt "USB Host Shield 2.0" clone (~$6, Uno-sized). Confirm
-  part availability first — the MAX3421E is mature/legacy and flagged
-  NRND-adjacent by Maxim.
-- **[DECIDE] Host stack:** TinyUSB + MAX3421E HCD (small `begin()` change to the
-  existing `input_usbhost.cpp`) vs. the USB Host Shield 2.0 library (rewrites the
-  adapter). Both support hubs and full-length descriptors.
-- Extract the keyboard report-parsing logic (multi-HID-interface selection,
-  report-ID / boot-vs-NKRO parsing, modifier→usage mapping, LED SET_REPORT) from
-  `input_usbhost.cpp` into a shared helper so both host drivers reuse it.
-- Add the MAX3421E SPI + IRQ pins to `pins.h`; update `docs/wiring.md` +
-  `wiring.png`.
+- **Form factor (decided):** bare **CH559L** (LQFP-48, hand-solderable) on the
+  custom PCB, ~$1.5. It runs off its internal oscillator (no crystal needed).
+  **Pre-commit gate:** validate keyboard compatibility first on a cheap breakout
+  (e.g. MatzElectronics CH559 USB Host Breakout, Tindie $9.50, or the
+  Electrodragon CH559 mini board $5.30) flashed with the HIDman/`atc1441` host
+  firmware, plugged into the keyboards that currently fail on PIO-USB.
+- **Host firmware (decided):** the CH559 side is **8051 C** (SDCC, via the
+  `atc1441/CH559sdccUSBHost` fork used by HIDman — GPL-3.0, acceptable because
+  it's a *separate chip* and does not contaminate the MIT RP2040 firmware). The
+  RP2040 side is a new UART-bridge `InputAdapter` (C++).
+- Extract the keyboard report→`KeyEvent` semantics (multi-interface selection,
+  report-ID / boot-vs-NKRO parsing, modifier→usage, LED SET_REPORT) so both the
+  PIO-USB adapter (legacy `pico` build) and the CH559 bridge adapter reuse them.
+- Add the CH559 UART pins to `pins.h` (`GP0`/`GP1` on `Serial1`); update
+  `docs/wiring.md` + `wiring.png`.
 - **Verify (hardware):** enumerate a hub-connected keyboard and a long-descriptor
   keyboard that currently fail on PIO-USB; confirm key events, LEDs, and hot-plug.
+  **[DECIDE]** exact UART protocol framing at kickoff.
 
 ### 2b. Power switch + 3.5 mm TRS MIDI out
 

diff --git a/docs/custom-configuration-guide.md b/docs/custom-configuration-guide.md
@@ -19,7 +19,7 @@ The filesystem is presented as a USB Mass Storage drive named **"KeybChord"**:
 3. On your PC the **"KeybChord"** drive mounts. Edit/add files there.
 4. Eject the drive and power-cycle **without** holding `Ctrl`.
 
-> The keyboard stays on the separate PIO-USB host port; the drive is on the
+> The keyboard stays on the separate CH559 host coprocessor; the drive is on the
 > native USB port. While the drive is mounted the firmware must not write to the
 > filesystem, so preset Save/Clear is suppressed until you eject and reboot.
 
